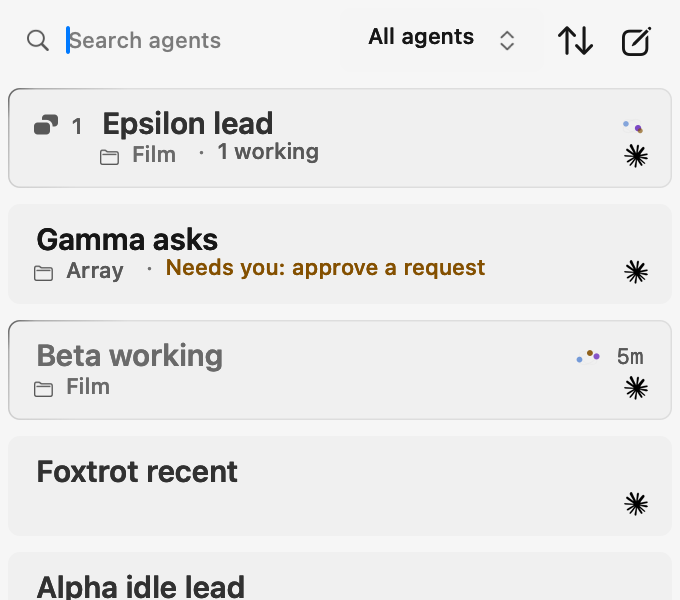
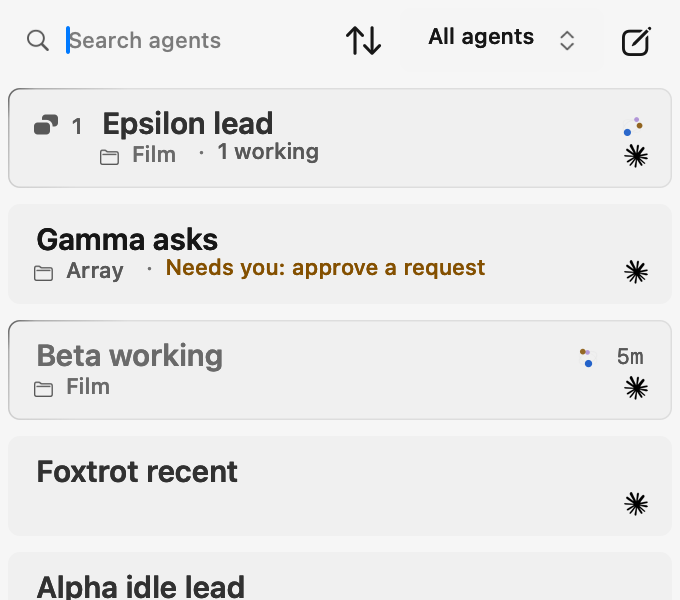
fix(sidebar): keep the search and scope widths with the sort button
The sort button took its own slot in the one-row header and squeezed
search and scope to 102 pt each. It now sits in the search field's
reserved trailing slot, which the clear button takes while text is
typed, so the row keeps its three controls at their own widths.

Changed region(s): [[0.4941, 0.03, 0.8647, 0.09], [0.8956, 0.18, 0.9574, 0.24], [0.8338, 0.57, 0.8956, 0.6]]

diff --git a/Sources/ContinuumRevived/App/SidebarSortChecks.swift b/Sources/ContinuumRevived/App/SidebarSortChecks.swift
@@ -59,10 +59,10 @@ enum SidebarSortChecks {
         override var isKeyWindow: Bool { true }
     }
 
-    static func build(dark: Bool, rows: [AgentInboxRow] = fixture(), height: CGFloat = 460,
+    static func build(dark: Bool, rows: [AgentInboxRow] = fixture(), width: CGFloat = 340, height: CGFloat = 460,
                       leadOpen: Bool = true) -> (AgentInboxView, NSWindow)
     {
-        let inbox = AgentInboxView(frame: NSRect(x: 0, y: 0, width: 340, height: height))
+        let inbox = AgentInboxView(frame: NSRect(x: 0, y: 0, width: width, height: height))
         inbox.clock = { now }
         inbox.prefersReducedMotion = { false }
         inbox.hoverCardEnabled = false
@@ -122,13 +122,42 @@ enum SidebarSortChecks {
                                    "Epsilon helper", "Alpha idle lead", "Beta working"],
                            "a bare view draws newest spawned first")
         guard inbox.sortButtonForQA.toolTip == "Sort: Newest first", !inbox.sortButtonForQA.isHidden,
-              inbox.sortButtonForQA.frame.width == AgentInboxView.headerIconButtonSide else {
+              inbox.sortButtonForQA.frame.width == AgentInboxView.sortButtonSide else {
             throw Failure(description: "the header's sort button is missing or unlabelled: "
                 + "\(inbox.sortButtonForQA.toolTip ?? "nil") \(inbox.sortButtonForQA.frame)")
         }
         guard (inbox.accessibilityChildren() as? [NSView])?.contains(where: { $0 === inbox.sortButtonForQA }) == true,
               inbox.sortButtonForQA.accessibilityLabel() == "Sort agents" else {
             throw Failure(description: "VoiceOver cannot reach the sort button")
+        }
+
+        // 1b. The header keeps its three controls and their widths: the sort
+        //     button sits inside the search field's trailing slot, and typing
+        //     swaps it for the clear button. At the sidebar's default and minimum.
+        for width in [CGFloat(WorkspaceSidebarConfig.defaultWidth), CGFloat(WorkspaceSidebarConfig.minWidth)] {
+            let (header, headerWindow) = build(dark: false, width: width, height: 200)
+            defer { headerWindow.orderOut(nil) }
+            header.layoutForQA()
+            let field = header.searchFieldViewForQA.frame
+            let scope = header.scopeControlFrameForQA
+            let sort = header.sortButtonForQA.frame
+            guard field.width > scope.width, field.maxX <= scope.minX,
+                  !header.sortButtonForQA.isHidden, field.contains(sort),
+                  abs((field.maxX - sort.maxX) - (sort.minY - field.minY)) <= 1,
+                  abs(sort.midY - field.midY) <= 1 else {
+                throw Failure(description: "at \(width)pt the header squeezes: field \(field), scope \(scope), sort \(sort)")
+            }
+            header.setSearchForQA("alp")
+            header.layoutForQA()
+            guard header.sortButtonForQA.isHidden, header.searchClearShownForQA else {
+                throw Failure(description: "at \(width)pt typing left the sort button up or the clear button down")
+            }
+            header.setSearchForQA("")
+            header.layoutForQA()
+            guard !header.sortButtonForQA.isHidden, !header.searchClearShownForQA,
+                  header.searchFieldViewForQA.frame == field else {
+                throw Failure(description: "at \(width)pt clearing the search did not bring the sort button back")
+            }
         }
 
         // 2. Most active: working and asking first, newest turn first (a lead
@@ -355,6 +384,7 @@ enum SidebarSortChecks {
               !AgentInbox96CellView.showsWorkingGlyph(idleLead, rollup: ChildRollup(children: 1, working: 0, needsYou: 0, failed: 0)) else {
             throw Failure(description: "the lead's working fact does not follow its helpers")
         }
+        report.append("header: search wider than scope with the sort button inside it at 280 and 220 pt; typing swaps it for clear")
         report.append("lead glyph: on with a working helper (open and folded) beside the outline, off when it finishes")
 
         // 9. Stills.
@@ -370,6 +400,14 @@ enum SidebarSortChecks {
                 still.setSortMode(.byProject)
                 still.layoutForQA()
                 try SidebarOwnershipChecks.write(still, to: outputDirectory.appendingPathComponent("by-project-\(label).png"))
+                let (header, headerWindow) = build(dark: dark, width: CGFloat(WorkspaceSidebarConfig.defaultWidth), height: 120)
+                defer { headerWindow.orderOut(nil) }
+                header.setSortMode(.mostActive)
+                header.layoutForQA()
+                try SidebarOwnershipChecks.write(header, to: outputDirectory.appendingPathComponent("header-\(label).png"))
+                header.setSearchForQA("alp")
+                header.layoutForQA()
+                try SidebarOwnershipChecks.write(header, to: outputDirectory.appendingPathComponent("header-typing-\(label).png"))
                 let (folded, foldedWindow) = build(dark: dark, height: 300, leadOpen: false)
                 defer { foldedWindow.orderOut(nil) }
                 folded.setSortMode(.mostActive)

diff --git a/Sources/ContinuumRevived/App/AgentInboxView.swift b/Sources/ContinuumRevived/App/AgentInboxView.swift
@@ -1606,11 +1606,20 @@ final class AgentInboxView: NSView, NSTableViewDataSource, NSTableViewDelegate,
             scopeButton.centerYAnchor.constraint(equalTo: searchField.centerYAnchor),
             scopeButton.heightAnchor.constraint(equalToConstant: ChoiceButton.controlHeight),
             searchFloor,
-            sortButton.leadingAnchor.constraint(equalTo: scopeButton.trailingAnchor, constant: Space.xs),
+            // .plans/113: the sort button sits in the field's reserved trailing
+            // slot, inset from the edge as far as from the top and bottom, so the
+            // row keeps its three controls and their widths. Typing swaps it for
+            // the clear button.
+            // The field's trailing anchor is its ALIGNMENT edge, inset from the
+            // painted frame, so that inset is given back.
+            sortButton.trailingAnchor.constraint(
+                equalTo: searchField.trailingAnchor,
+                constant: -((ChoiceButton.controlHeight - Self.sortButtonSide) / 2
+                    - searchField.alignmentRectInsets.right)),
             sortButton.centerYAnchor.constraint(equalTo: searchField.centerYAnchor),
-            sortButton.widthAnchor.constraint(equalToConstant: Self.headerIconButtonSide),
-            sortButton.heightAnchor.constraint(equalToConstant: Self.headerIconButtonSide),
-            newAgentButton.leadingAnchor.constraint(equalTo: sortButton.trailingAnchor, constant: Space.xs),
+            sortButton.widthAnchor.constraint(equalToConstant: Self.sortButtonSide),
+            sortButton.heightAnchor.constraint(equalToConstant: Self.sortButtonSide),
+            newAgentButton.leadingAnchor.constraint(equalTo: scopeButton.trailingAnchor, constant: Space.xs),
             newAgentButton.trailingAnchor.constraint(equalTo: trailingAnchor, constant: -Space.m),
             newAgentButton.centerYAnchor.constraint(equalTo: searchField.centerYAnchor),
             newAgentButton.widthAnchor.constraint(equalToConstant: Self.headerIconButtonSide),
@@ -1770,7 +1779,21 @@ final class AgentInboxView: NSView, NSTableViewDataSource, NSTableViewDelegate,
         searchIcon.isHidden = false
         searchClearButton.contentTintColor = TextToken.textSecondary.color.nsColor(in: self)
         searchClearButton.isHidden = searchField.stringValue.isEmpty
+        updateSortButtonVisibility()
     }
+
+    /// .plans/113: one-row header only, and only while the field is empty — the
+    /// clear button takes the same slot while there is text to clear.
+    private func updateSortButtonVisibility() {
+        let shown = headerStyleOverride?.oneRow == true && searchField.stringValue.isEmpty
+        guard sortButton.isHidden == shown else { return }
+        sortButton.isHidden = !shown
+        if !shown, sortPopover.isPresented { sortPopover.dismiss(); sortButton.isActive = false }
+        updateAccessibilityHierarchy()
+    }
+
+    /// Fits the field's 32 pt height with room around its hover fill.
+    static let sortButtonSide: CGFloat = 24
 
     /// Whether a caret is genuinely in the search field.
     ///
@@ -1822,7 +1845,7 @@ final class AgentInboxView: NSView, NSTableViewDataSource, NSTableViewDelegate,
             defaultHeaderConstraints + stackedHeaderConstraints + oneRowHeaderConstraints)
         NSLayoutConstraint.activate(chosen)
         newAgentButton.isHidden = !oneRow
-        sortButton.isHidden = !oneRow
+        updateSortButtonVisibility()
         // In one row the scope control holds its title against everything but
         // the search field's floor: below that its label truncates, rather than
         // the row forcing the sidebar wider than it is.
@@ -6768,6 +6791,7 @@ final class AgentInboxView: NSView, NSTableViewDataSource, NSTableViewDelegate,
     var scopeControlWidthForQA: CGFloat { scopeButton.bounds.width }
     var scopeButtonForQA: ChoiceButton { scopeButton }
     var searchFieldViewForQA: NSTextField { searchField }
+    var searchClearShownForQA: Bool { !searchClearButton.isHidden }
     var searchFieldFrameForQA: NSRect { searchField.frame }
     var searchTextDrawingRectForQA: NSRect {
         searchField.cell?.drawingRect(forBounds: searchField.bounds) ?? .zero

diff --git a/.plans/113-sidebar-sort/README.md b/.plans/113-sidebar-sort/README.md
@@ -88,7 +88,19 @@ message.
   VoiceOver still reads the project. A chip naming a different folder (a
   worktree) stays, and every other mode keeps the chip.
 
+- **Header fit (preview matrix finding).** The sort button had its own slot in
+  the header row, which squeezed search and scope to 102 pt each and failed
+  `--sidebar-screenshot-check`. It now sits inside the search field's reserved
+  trailing slot (24 pt, inset 4 pt like its top and bottom), so the row is back
+  to search, scope and New Agent at their own widths (132 / 102 pt at 280 pt).
+  While text is typed the clear button takes that slot and the sort button
+  hides; clearing the search brings it back. Stills: `header-light.png`,
+  `header-dark.png`, `header-typing-light.png`, `header-typing-dark.png`.
+
 ## Left out on purpose
+
+- Changing the sort while a search is typed: clear the search first (the clear
+  button and the sort button share one slot).
 
 - Project headings do not collapse.
 - The New Agent button is missing from the sidebar's hand-built accessibility
